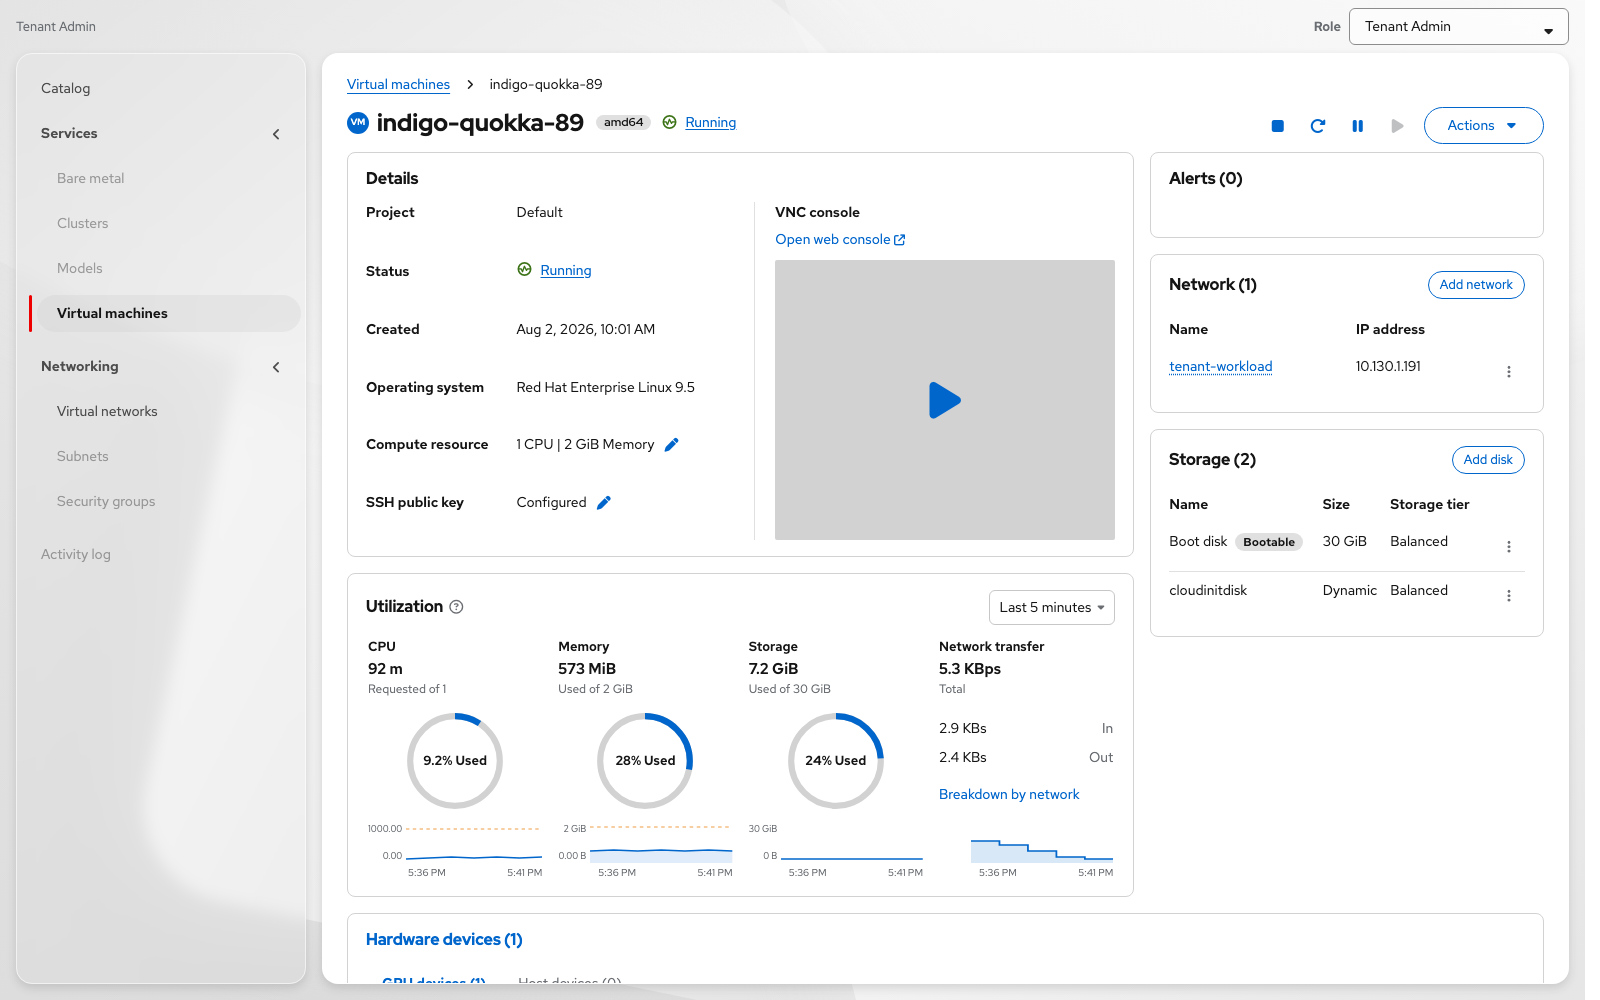
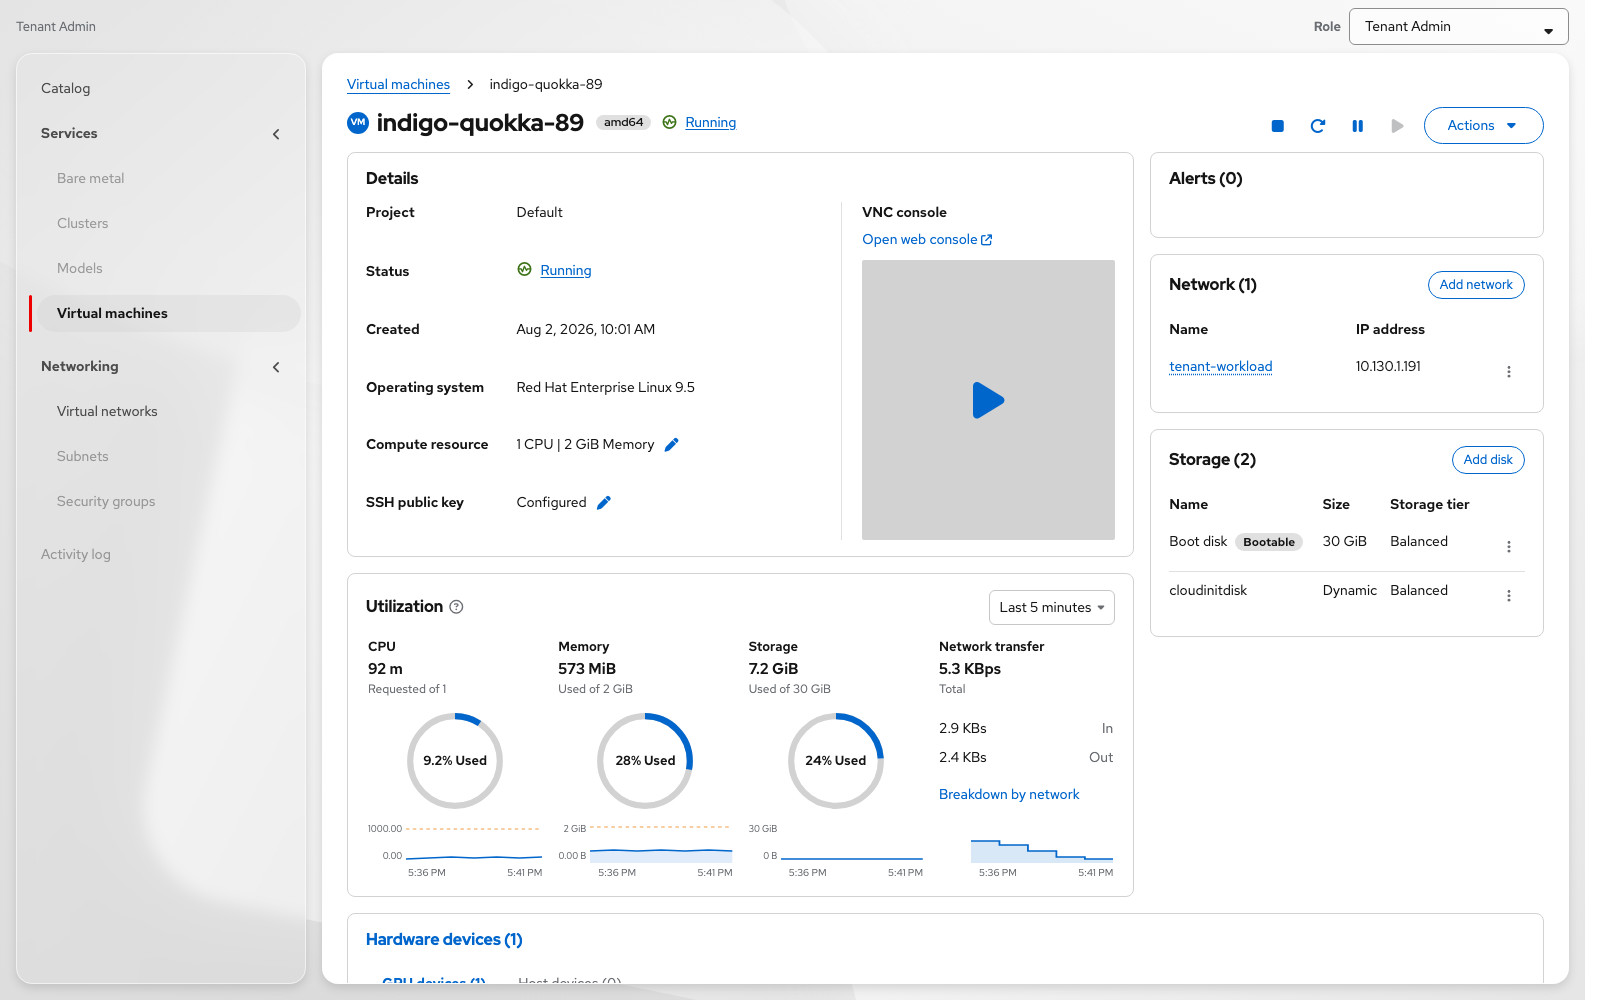
Restore Details/VNC column proportions; keep PF vertical divider only.

Changed region(s): [[0.4688, 0.186, 0.625, 0.558]]

diff --git a/vmaas-create-vm-only.html b/vmaas-create-vm-only.html
@@ -516,44 +516,32 @@
       display: flex; align-items: center; justify-content: space-between; gap: 8px; margin-bottom: 12px;
     }
     .vm-card__title-row .vm-card__title { margin: 0; }
+    /* Same proportions as before the divider: 1.35fr details | 0.75fr VNC.
+       Two 10px gaps ≈ original single 20px gap so VNC width stays the same. */
     .vm-details-grid {
-      display: flex;
+      display: grid;
+      grid-template-columns: minmax(0, 1.35fr) auto minmax(200px, 0.75fr);
+      column-gap: 10px;
       align-items: stretch;
-      gap: 0;
       min-width: 0;
-    }
-    .vm-details-grid > .vm-dl {
-      flex: 1.35 1 0;
-      min-width: 0;
-      padding-inline-end: 20px;
     }
     .vm-details-grid > .pf-v6-c-divider.pf-m-vertical {
-      align-self: stretch;
-      flex: 0 0 auto;
-      /* PF vertical divider uses height:inherit; force stretch in this flex row */
+      /* PF vertical divider uses height:inherit; stretch to grid row */
       height: auto !important;
-      min-height: 100%;
+      align-self: stretch;
       width: var(--pf-v6-c-divider--Size, 1px);
       background-color: var(--pf-t--global--border--color--default, var(--vmaas-border-light, #d2d2d2));
       border: none;
       margin: 0;
       padding: 0;
     }
+    .vm-details-grid > .vm-dl,
     .vm-details-grid > .vm-vnc {
-      flex: 0.75 1 200px;
-      min-width: 200px;
-      max-width: 360px;
-      padding-inline-start: 20px;
+      min-width: 0;
     }
     @media (max-width: 800px) {
       .vm-details-grid {
-        flex-direction: column;
-      }
-      .vm-details-grid > .vm-dl,
-      .vm-details-grid > .vm-vnc {
-        flex: 1 1 auto;
-        max-width: none;
-        padding-inline: 0;
+        grid-template-columns: 1fr;
       }
       .vm-details-grid > .pf-v6-c-divider.pf-m-vertical {
         display: none;
